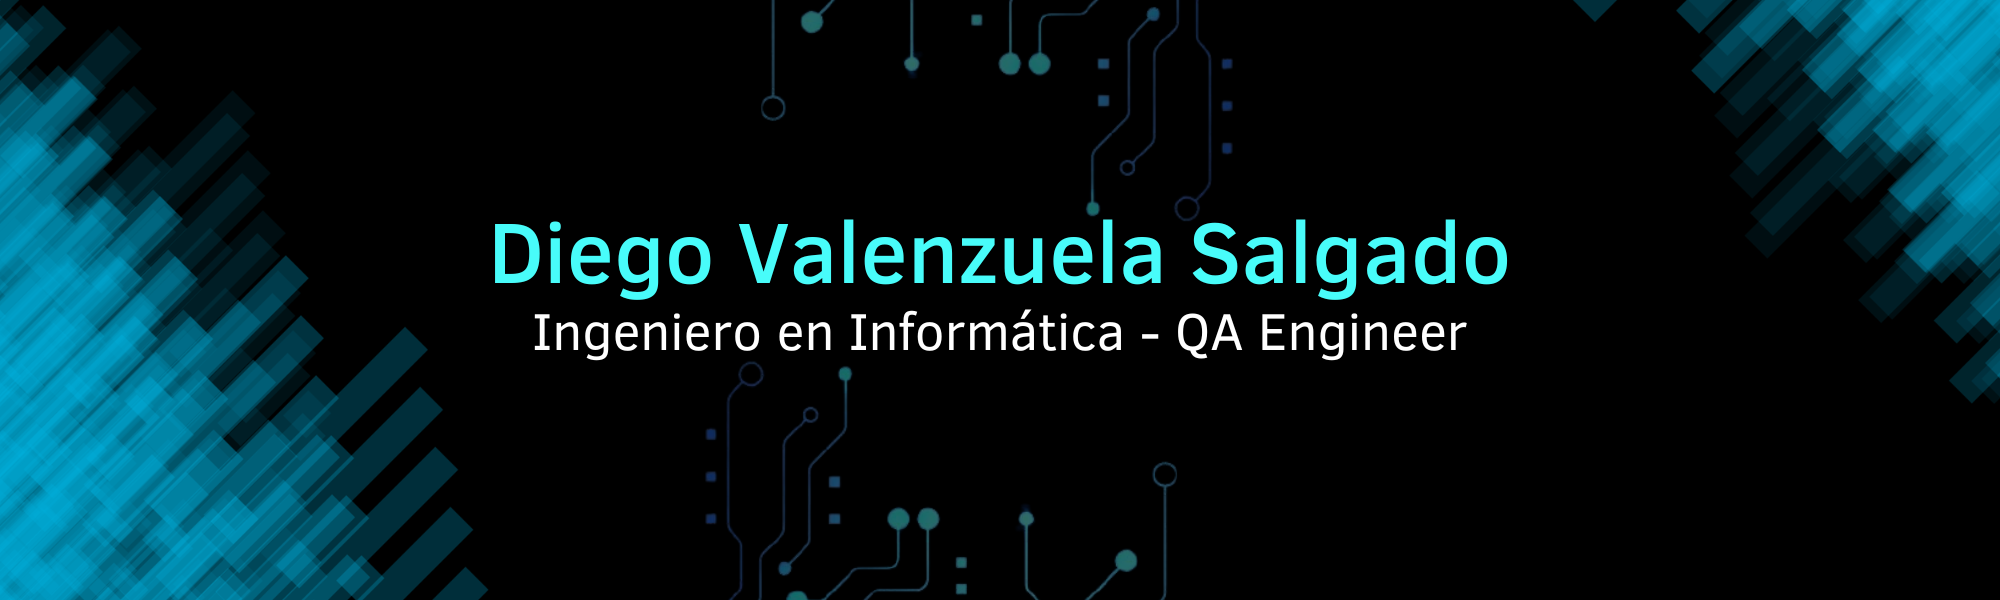
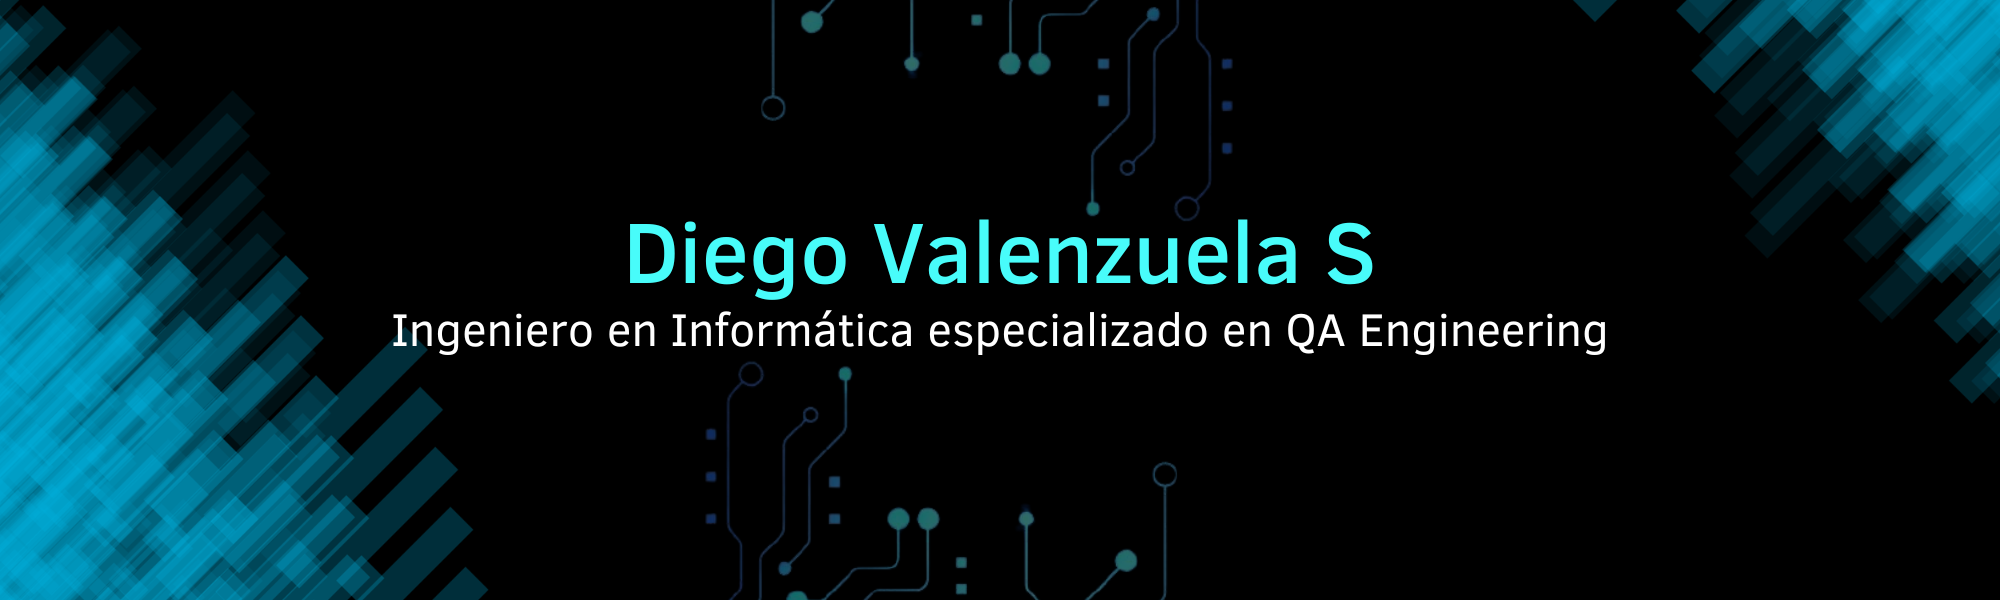
Update technologies

Changed region(s): [[0.186, 0.36, 0.806, 0.6]]

diff --git a/README.md b/README.md
@@ -4,17 +4,30 @@
 
 ![https://github.com/diegov1s9](https://github.com/diegov1s9/diegov1s9/blob/main/profile.png)
 
-Soy Ingeniero en Informática especializado en el aseguramiento de la calidad del software. 
+Soy Ingeniero en Informática especializado en QA Engineering.
 
 ## Tecnologías:
 [![Selenium](https://img.shields.io/badge/Selenium-43B02A?style=for-the-badge&logo=selenium&logoColor=white&labelColor=101010)]()
 [![Python](https://img.shields.io/badge/Python-3776AB?style=for-the-badge&logo=python&logoColor=white&labelColor=101010)]()
-[![PyCharm](https://img.shields.io/badge/PyCharm-000000?style=for-the-badge&logo=pycharm&logoColor=white&labelColor=101010)]()
+[![PyCharm](https://img.shields.io/badge/PyCharm-000000?style=for-the-badge&logo=pycharm&logoColor=white&labelColor=101010)]()  
 
 [![PostgresSQL](https://img.shields.io/badge/PostgreSQL-4169E1?style=for-the-badge&logo=postgresql&logoColor=white&labelColor=101010)]()
+[![Oracle](https://img.shields.io/badge/Oracle-3a3632?style=for-the-badge&logo=Oracle&logoColor=white&labelColor=101010)]()
+[![MySQL](https://img.shields.io/badge/MySQL-4479A1?style=for-the-badge&logo=mysql&logoColor=white&labelColor=101010)]()
+
+[![Postman](https://img.shields.io/badge/Postman-FF6C37?style=for-the-badge&logo=postman&logoColor=white&labelColor=101010)]()
 
 [![Android_Studio](https://img.shields.io/badge/Android_Studio-3DDC84?style=for-the-badge&logo=android-studio&logoColor=white&labelColor=101010)]()
 
 [![Charles](https://img.shields.io/badge/Charles-F3F5F5?style=for-the-badge&logo=charles&logoColor=white&labelColor=101010)]()
 
 [![Linux](https://img.shields.io/badge/Linux-FCC624?style=for-the-badge&logo=linux&logoColor=white&labelColor=101010)]()
+
+[![PHP](https://img.shields.io/badge/PHP-777BB4?style=for-the-badge&logo=php&logoColor=white&labelColor=101010)]()
+[![Laravel](https://img.shields.io/badge/Laravel-FF2D20?style=for-the-badge&logo=laravel&logoColor=white&labelColor=101010)]()
+
+[![JavaScript](https://img.shields.io/badge/JavaScript-F7DF1E?style=for-the-badge&logo=javascript&logoColor=white&labelColor=101010)]()
+[![Vue.js](https://img.shields.io/badge/Vue.JS-4FC08D?style=for-the-badge&logo=vuedotjs&logoColor=white&labelColor=101010)]()
+[![Electron](https://img.shields.io/badge/Electron-47848F?style=for-the-badge&logo=electron&logoColor=white&labelColor=101010)]()
+
+[![Bootstrap](https://img.shields.io/badge/Bootstrap-7952B3?style=for-the-badge&logo=bootstrap&logoColor=white&labelColor=101010)]()
